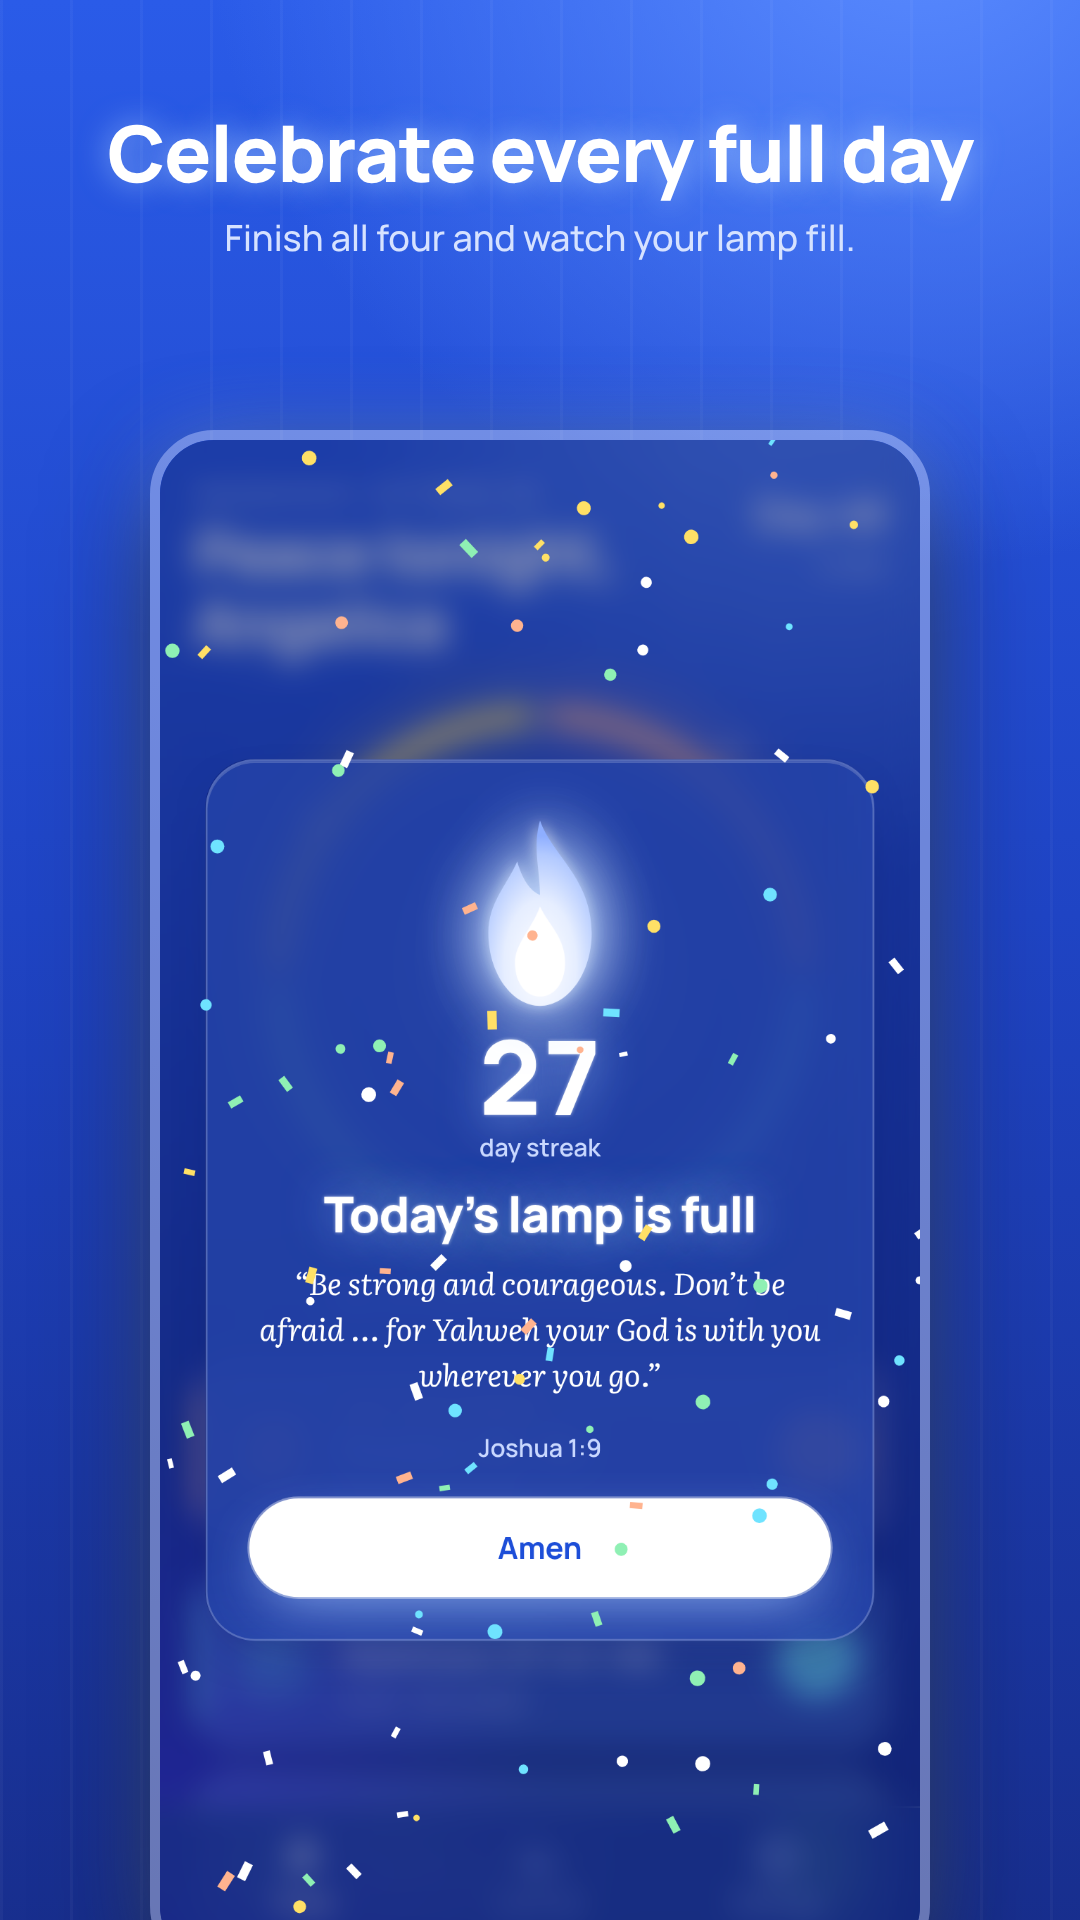
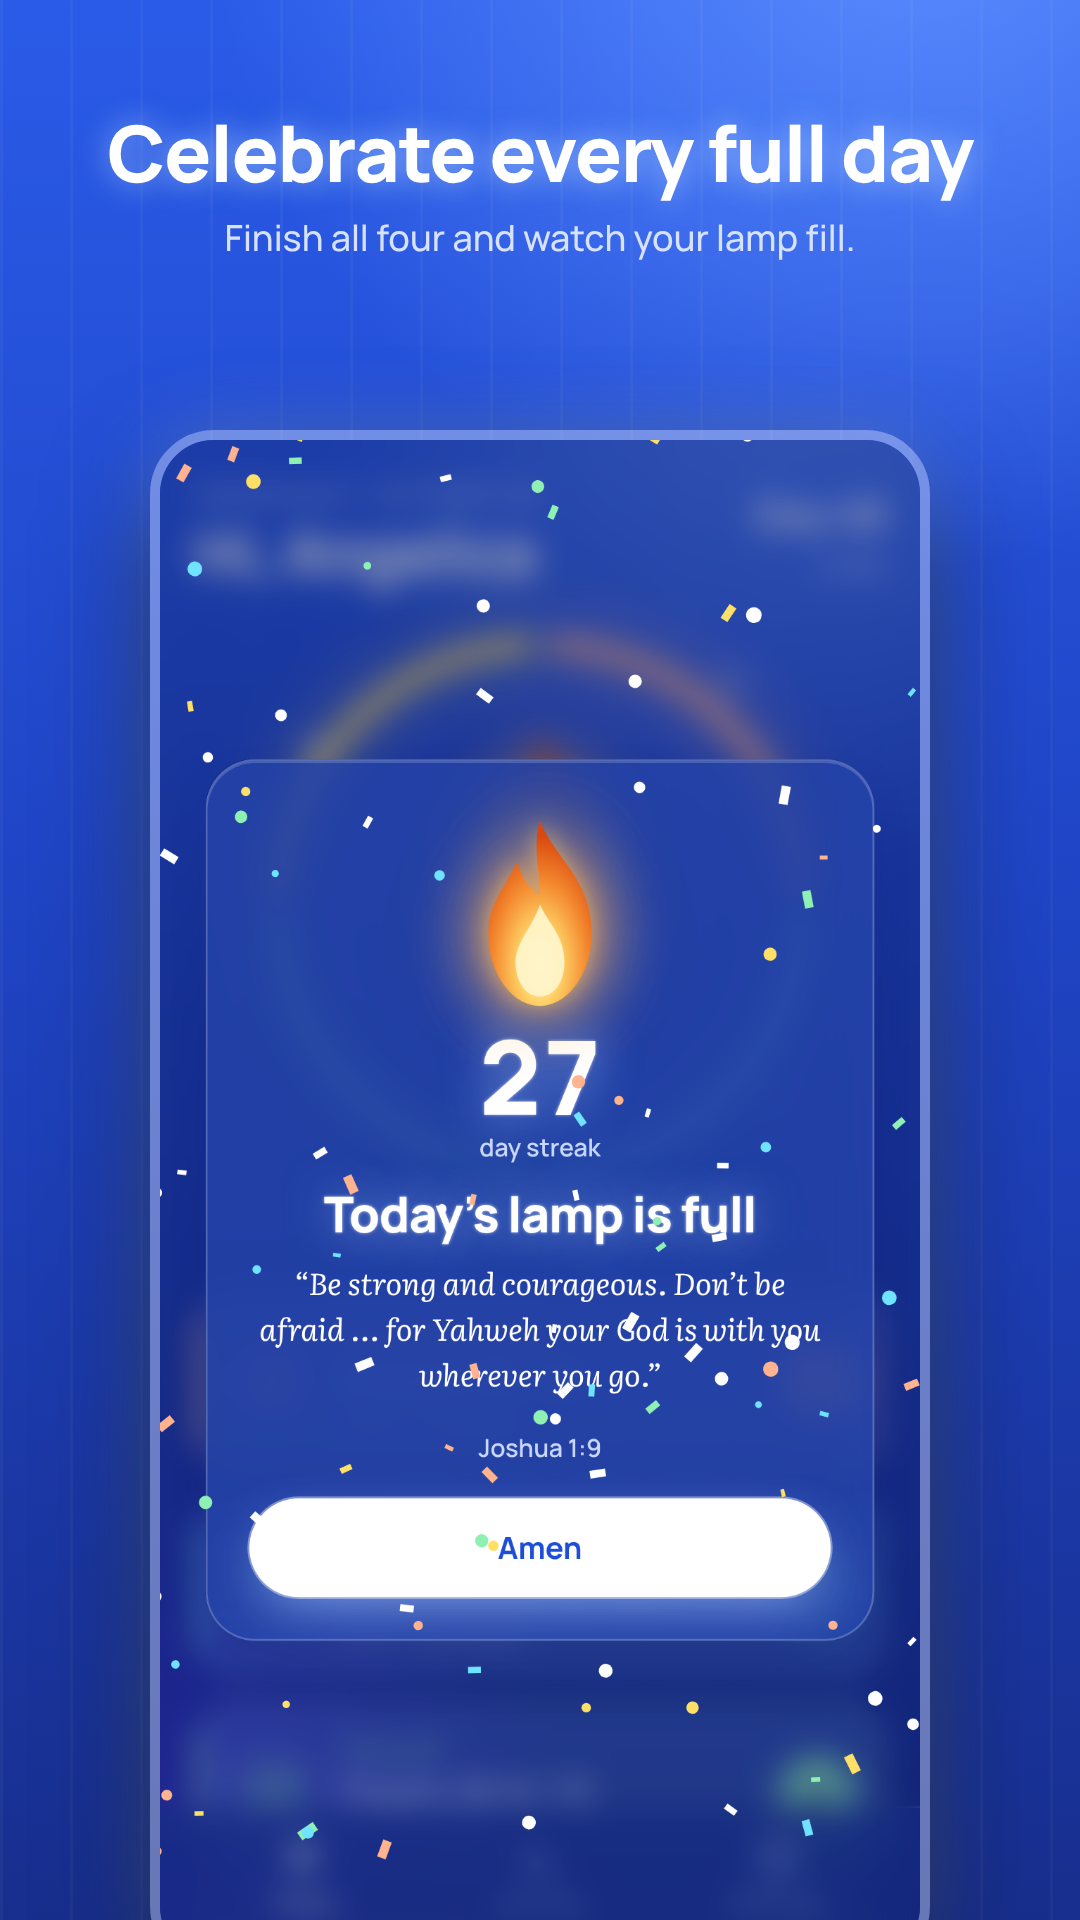
Orange flame on blue, rotating greetings, reading font toggle
- Keep the royal-blue base; bring back the warm orange flame and glow
  (app, icon, splash, store graphics, docs)
- Greetings rotate per app open: 'New mercies' / 'Good morning' /
  'Morning' in the morning, natural options for other times
- Serif/Sans reading font toggle in the reader (Aa) and Settings

Claude-Session: https://claude.ai/code/session_01SwBzFdNdQH49VsUYRqPdEV

diff --git a/www/js/app.js b/www/js/app.js
@@ -37,12 +37,12 @@ const FLAME_SVG = (cls = '') => `
 <svg class="flame ${cls}" viewBox="0 0 100 130" aria-hidden="true">
   <defs>
     <radialGradient id="fg" cx="50%" cy="78%" r="70%">
-      <stop offset="0" stop-color="#ffffff"/><stop offset=".5" stop-color="#e6eeff"/>
-      <stop offset=".85" stop-color="#b3caff"/><stop offset="1" stop-color="#8eaeff"/>
+      <stop offset="0" stop-color="#fff7d6"/><stop offset=".3" stop-color="#ffd166"/>
+      <stop offset=".65" stop-color="#f4892f"/><stop offset="1" stop-color="#d9480f"/>
     </radialGradient>
   </defs>
   <path d="M50 4C58 27 84 42 84 78c0 27-16 48-34 48S16 105 16 78c0-20 12-31 19-47 4 14 10 20 15 22C50 37 45 21 50 4z" fill="url(#fg)"/>
-  <path class="inner" d="M50 62c6 12 17 20 17 36 0 14-8 22-17 22s-17-8-17-22c0-12 11-21 17-36z" fill="#ffffff" opacity="1"/>
+  <path class="inner" d="M50 62c6 12 17 20 17 36 0 14-8 22-17 22s-17-8-17-22c0-12 11-21 17-36z" fill="#fff4c9" opacity=".95"/>
 </svg>`;
 
 const SPARKLE = (cls, style) => `<svg class="sparkle ${cls}" style="${style}" viewBox="0 0 24 24" aria-hidden="true"><path d="M12 0c.8 6.4 2.6 9.9 12 12-9.4 2.1-11.2 5.6-12 12-.8-6.4-2.6-9.9-12-12C9.4 9.9 11.2 6.4 12 0z" fill="currentColor"/></svg>`;
@@ -81,10 +81,27 @@ function applyTheme() {
   const r = document.documentElement;
   if (state.theme === 'system') r.removeAttribute('data-theme'); else r.setAttribute('data-theme', state.theme);
   r.style.setProperty('--read-size', `${Math.round(19 * state.fontScale)}px`);
+  r.setAttribute('data-readfont', state.readFont === 'sans' ? 'sans' : 'serif');
   const dark = state.theme === 'dark' || (state.theme === 'system' && matchMedia('(prefers-color-scheme: dark)').matches);
   document.querySelector('meta[name=theme-color]').content = dark ? '#2a5be8' : '#f4f7ff';
 }
-const greeting = () => { const h = new Date().getHours(); return h < 5 ? 'Peace tonight' : h < 12 ? 'Good morning' : h < 18 ? 'Good afternoon' : 'Good evening'; };
+// Greetings rotate each time the app is opened (stable while navigating).
+const GREETINGS = {
+  late: ['Hi', 'Hello', 'Welcome back'],                  // 12–5 AM
+  morning: ['New mercies', 'Good morning', 'Morning'],     // 5 AM–12 PM
+  afternoon: ['Good afternoon', 'Hello', 'Welcome back'],  // 12–6 PM
+  evening: ['Good evening', 'Hello', 'Welcome back'],      // 6 PM–12 AM
+};
+let opens = 0;
+function countOpen() {
+  try { opens = (Number(localStorage.getItem('lamp.opens')) || 0) + 1; localStorage.setItem('lamp.opens', String(opens)); }
+  catch { opens = Math.floor(Math.random() * 3); }
+}
+const greeting = () => {
+  const h = new Date().getHours();
+  const set = GREETINGS[h < 5 ? 'late' : h < 12 ? 'morning' : h < 18 ? 'afternoon' : 'evening'];
+  return set[opens % set.length];
+};
 const dayNum = () => planDayFor(state.startDate, today());
 
 // ---------- progress maths ----------
@@ -367,6 +384,7 @@ async function viewReader(track, key) {
         <div class="reader-title"><div class="track">${t.name}</div><div class="ref">${esc(ref)}</div></div>
         <button class="icon-btn" data-action="font-" aria-label="Smaller text">${icon('aminus')}</button>
         <button class="icon-btn" data-action="font+" aria-label="Larger text">${icon('aplus')}</button>
+        <button class="icon-btn readfont-btn" data-action="readfont" aria-label="Switch reading font">${state.readFont === 'sans' ? '<span style="font-family:var(--serif);font-size:19px;font-weight:600">Aa</span>' : '<span style="font-family:var(--sans);font-size:18px;font-weight:800">Aa</span>'}</button>
       </div>
       <div class="progress" id="rprog"></div>
     </div>`;
@@ -523,6 +541,8 @@ function viewSettings() {
             <button class="btn small" data-action="save-key">Save</button>
           </div>
         </div>
+        <div class="item"><div class="t"><b>Reading font</b><span>${state.readFont === 'sans' ? 'Sans-serif (Manrope)' : 'Serif (Literata)'}</span></div>
+          ${seg('readFont', state.readFont || 'serif', [['serif', 'Serif'], ['sans', 'Sans']])}</div>
         <div class="item"><div class="t"><b>Text size</b><span>${Math.round(state.fontScale * 100)}%</span></div>
           <div class="seg-ctl"><button data-action="font-">A−</button><button data-action="font+">A+</button></div></div>
         <div class="item"><div class="t"><b>Theme</b></div>
@@ -686,6 +706,11 @@ document.addEventListener('click', async (e) => {
   }
   const a = el.dataset.action;
   if (a === 'back') { history.length > 1 ? history.back() : (location.hash = '#/today'); }
+  if (a === 'readfont') {
+    state.readFont = state.readFont === 'sans' ? 'serif' : 'sans'; save(); applyTheme();
+    el.innerHTML = state.readFont === 'sans' ? '<span style="font-family:var(--serif);font-size:19px;font-weight:600">Aa</span>' : '<span style="font-family:var(--sans);font-size:18px;font-weight:800">Aa</span>';
+    toast(state.readFont === 'sans' ? 'Sans-serif reading font' : 'Serif reading font');
+  }
   if (a === 'font+' || a === 'font-') {
     state.fontScale = Math.max(0.8, Math.min(1.6, +(state.fontScale + (a === 'font+' ? 0.1 : -0.1)).toFixed(2)));
     save(); applyTheme();
@@ -751,12 +776,17 @@ window.addEventListener('hashchange', route);
 matchMedia('(prefers-color-scheme: dark)').addEventListener?.('change', applyTheme);
 // Refresh the Today view when the app comes back to the foreground on a new day
 let lastDay = today();
+let hiddenAt = 0;
 document.addEventListener('visibilitychange', () => {
+  if (document.visibilityState === 'hidden') { hiddenAt = Date.now(); return; }
+  // Coming back after a few minutes counts as a fresh open: new greeting.
+  if (hiddenAt && Date.now() - hiddenAt > 5 * 60 * 1000) { countOpen(); if (!location.hash.startsWith('#/read')) route(); }
   if (document.visibilityState === 'visible' && today() !== lastDay) { lastDay = today(); route(); scheduleReminders(); }
 });
 
 (async function init() {
   await Promise.all([load(), loadPlan()]);
+  countOpen();
   applyTheme();
   route();
   scheduleReminders();

diff --git a/www/css/app.css b/www/css/app.css
@@ -374,8 +374,8 @@ body { background: var(--page-bg); background-attachment: fixed; }
 .help a { color: var(--text); text-decoration: underline; }
 
 /* hero: white-hot light with a blue halo */
-.hero .glow { background: radial-gradient(circle, rgba(170, 205, 255, calc(var(--glow, .2) * 1.6)) 0%, transparent 70%); }
-.flame { filter: drop-shadow(0 0 18px rgba(170, 205, 255, .9)) drop-shadow(0 0 4px rgba(255,255,255,.8)); }
+.hero .glow { background: radial-gradient(circle, rgba(255, 170, 80, calc(var(--glow, .2) * 1.3)) 0%, rgba(255, 140, 60, calc(var(--glow, .2) * .4)) 35%, transparent 70%); }
+.flame { filter: drop-shadow(0 0 20px rgba(255, 160, 70, .85)) drop-shadow(0 0 6px rgba(255, 210, 120, .7)); }
 .flame.ember { filter: saturate(.3) brightness(.75); opacity: .7; }
 .ring .seg:not(.on) { stroke: rgba(255,255,255,.18); }
 .sparkle { position: absolute; width: 26px; height: 26px; color: #fff; filter: drop-shadow(0 0 6px rgba(200,220,255,.9)); animation: twinkle 3.2s ease-in-out infinite; pointer-events: none; }
@@ -415,3 +415,8 @@ body { background: var(--page-bg); background-attachment: fixed; }
 
 .sparkle { color: var(--accent); }
 ::placeholder { color: var(--faint); opacity: 1; }
+
+/* reading font choice */
+:root[data-readfont="sans"] .scripture { font-family: var(--sans); line-height: 1.7; }
+:root[data-readfont="sans"] .scripture h2, :root[data-readfont="sans"] .scripture .ch-title { font-family: var(--display); font-weight: 800; }
+.reader-top .row .icon-btn span { line-height: 1; }

diff --git a/docs/index.html b/docs/index.html
@@ -1,6 +1,6 @@
 <!doctype html><html lang="en"><head><meta charset="utf-8"><meta name="viewport" content="width=device-width,initial-scale=1">
 <title>Lamp: Bible in a Year</title><link rel="stylesheet" href="style.css"></head><body><main>
-<svg class="flame" viewBox="0 0 100 130" aria-hidden="true"><defs><radialGradient id="g" cx="50%" cy="78%" r="70%"><stop offset="0" stop-color="#ffffff"/><stop offset=".5" stop-color="#e6eeff"/><stop offset=".85" stop-color="#b3caff"/><stop offset="1" stop-color="#5b86ff"/></radialGradient></defs><path d="M50 4C58 27 84 42 84 78c0 27-16 48-34 48S16 105 16 78c0-20 12-31 19-47 4 14 10 20 15 22C50 37 45 21 50 4z" fill="url(#g)"/><path d="M50 62c6 12 17 20 17 36 0 14-8 22-17 22s-17-8-17-22c0-12 11-21 17-36z" fill="#ffffff" opacity=".92"/></svg>
+<svg class="flame" viewBox="0 0 100 130" aria-hidden="true"><defs><radialGradient id="g" cx="50%" cy="78%" r="70%"><stop offset="0" stop-color="#fff7d6"/><stop offset=".3" stop-color="#ffd166"/><stop offset=".65" stop-color="#f4892f"/><stop offset="1" stop-color="#d9480f"/></radialGradient></defs><path d="M50 4C58 27 84 42 84 78c0 27-16 48-34 48S16 105 16 78c0-20 12-31 19-47 4 14 10 20 15 22C50 37 45 21 50 4z" fill="url(#g)"/><path d="M50 62c6 12 17 20 17 36 0 14-8 22-17 22s-17-8-17-22c0-12 11-21 17-36z" fill="#fff4c9" opacity=".92"/></svg>
 <div class="eyebrow">Android app</div>
 <h1>Lamp: Bible in a Year</h1>
 <blockquote>“Your word is a lamp to my feet, and a light for my path.” (Psalm 119:105)</blockquote>

diff --git a/docs/privacy.html b/docs/privacy.html
@@ -1,6 +1,6 @@
 <!doctype html><html lang="en"><head><meta charset="utf-8"><meta name="viewport" content="width=device-width,initial-scale=1">
 <title>Lamp Privacy Policy</title><link rel="stylesheet" href="style.css"></head><body><main>
-<svg class="flame" viewBox="0 0 100 130" aria-hidden="true"><defs><radialGradient id="g" cx="50%" cy="78%" r="70%"><stop offset="0" stop-color="#ffffff"/><stop offset=".5" stop-color="#e6eeff"/><stop offset=".85" stop-color="#b3caff"/><stop offset="1" stop-color="#5b86ff"/></radialGradient></defs><path d="M50 4C58 27 84 42 84 78c0 27-16 48-34 48S16 105 16 78c0-20 12-31 19-47 4 14 10 20 15 22C50 37 45 21 50 4z" fill="url(#g)"/><path d="M50 62c6 12 17 20 17 36 0 14-8 22-17 22s-17-8-17-22c0-12 11-21 17-36z" fill="#ffffff" opacity=".92"/></svg>
+<svg class="flame" viewBox="0 0 100 130" aria-hidden="true"><defs><radialGradient id="g" cx="50%" cy="78%" r="70%"><stop offset="0" stop-color="#fff7d6"/><stop offset=".3" stop-color="#ffd166"/><stop offset=".65" stop-color="#f4892f"/><stop offset="1" stop-color="#d9480f"/></radialGradient></defs><path d="M50 4C58 27 84 42 84 78c0 27-16 48-34 48S16 105 16 78c0-20 12-31 19-47 4 14 10 20 15 22C50 37 45 21 50 4z" fill="url(#g)"/><path d="M50 62c6 12 17 20 17 36 0 14-8 22-17 22s-17-8-17-22c0-12 11-21 17-36z" fill="#fff4c9" opacity=".92"/></svg>
 <div class="eyebrow">Lamp: Bible in a Year</div>
 <h1>Privacy Policy</h1>
 <p class="meta">Effective October 28, 2026</p>

diff --git a/www/js/store.js b/www/js/store.js
@@ -14,6 +14,7 @@ const DEFAULTS = () => ({
   nltKey: '',
   theme: 'system',
   fontScale: 1,
+  readFont: 'serif',
   reminder: { on: false, time: '06:00' },
   // done[track][key] = date it was marked read
   done: { ot: {}, nt: {}, ps: {}, pr: {} },
@@ -50,7 +51,7 @@ export function save() {
 export function reset(keepSettings = true) {
   const keep = keepSettings
     ? { name: state.name, translation: state.translation, nltKey: state.nltKey, theme: state.theme,
-        fontScale: state.fontScale, reminder: state.reminder, onboarded: state.onboarded }
+        fontScale: state.fontScale, readFont: state.readFont, reminder: state.reminder, onboarded: state.onboarded }
     : {};
   Object.assign(state, DEFAULTS(), keep);
   save();
